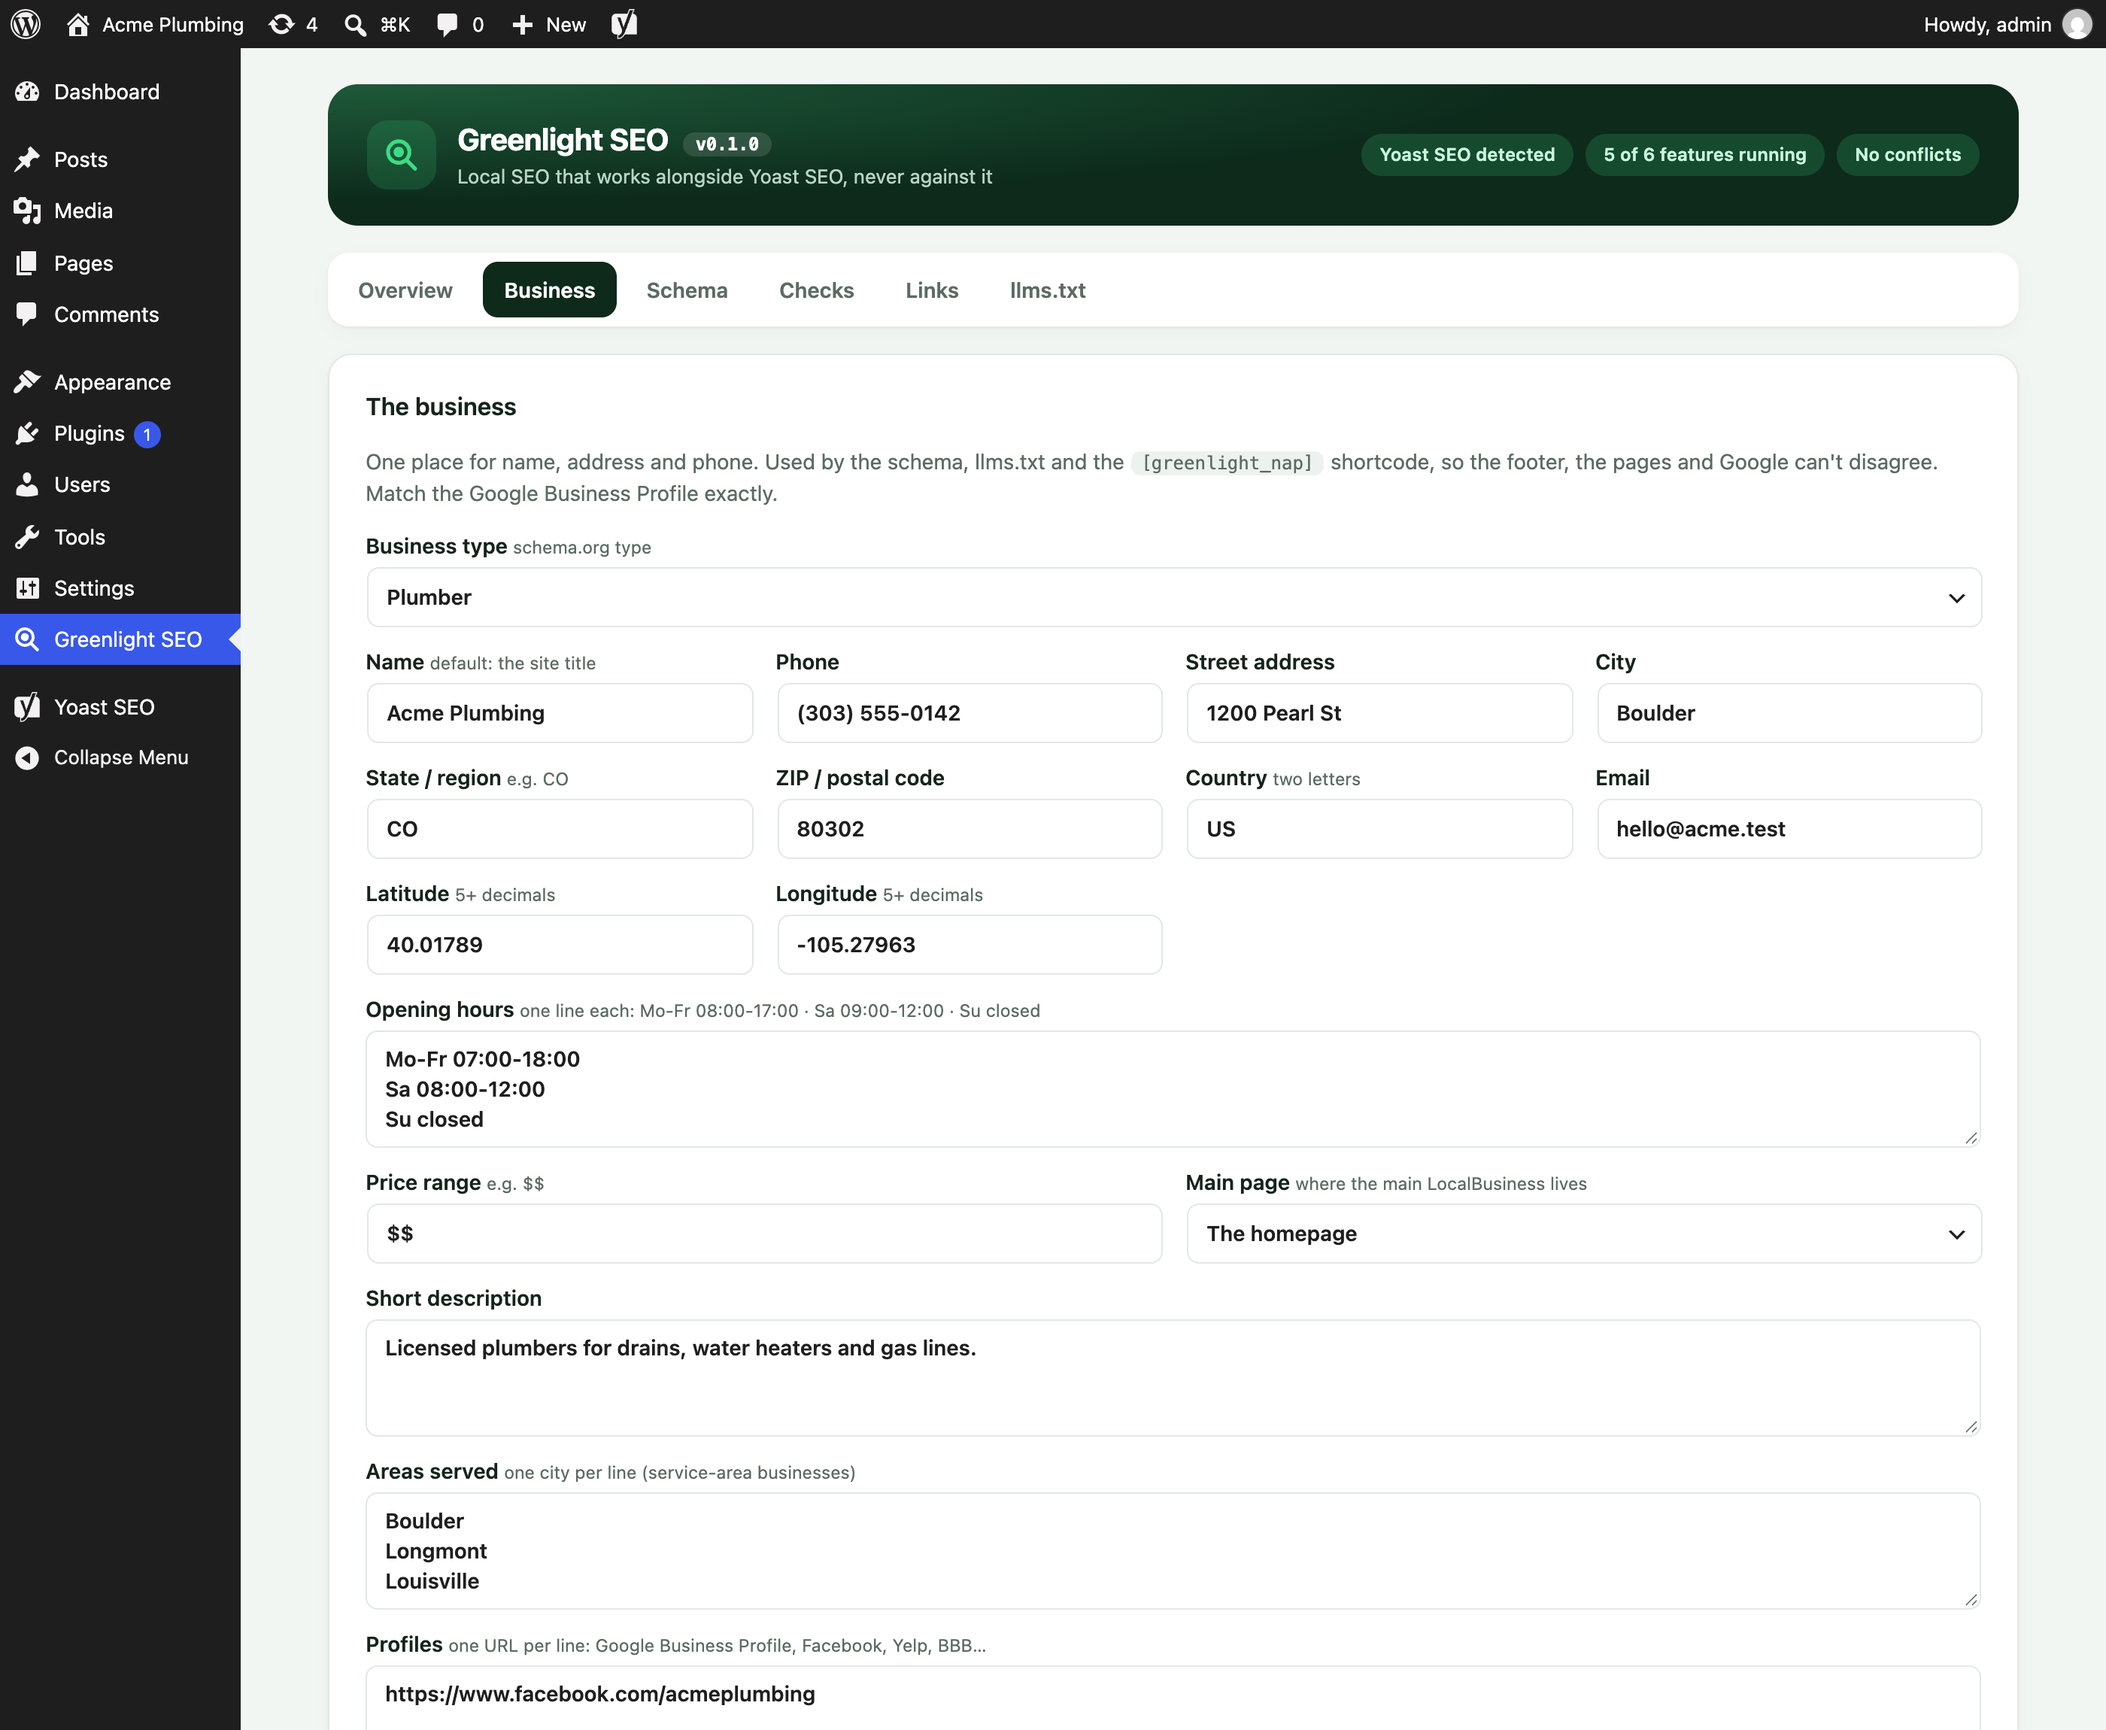
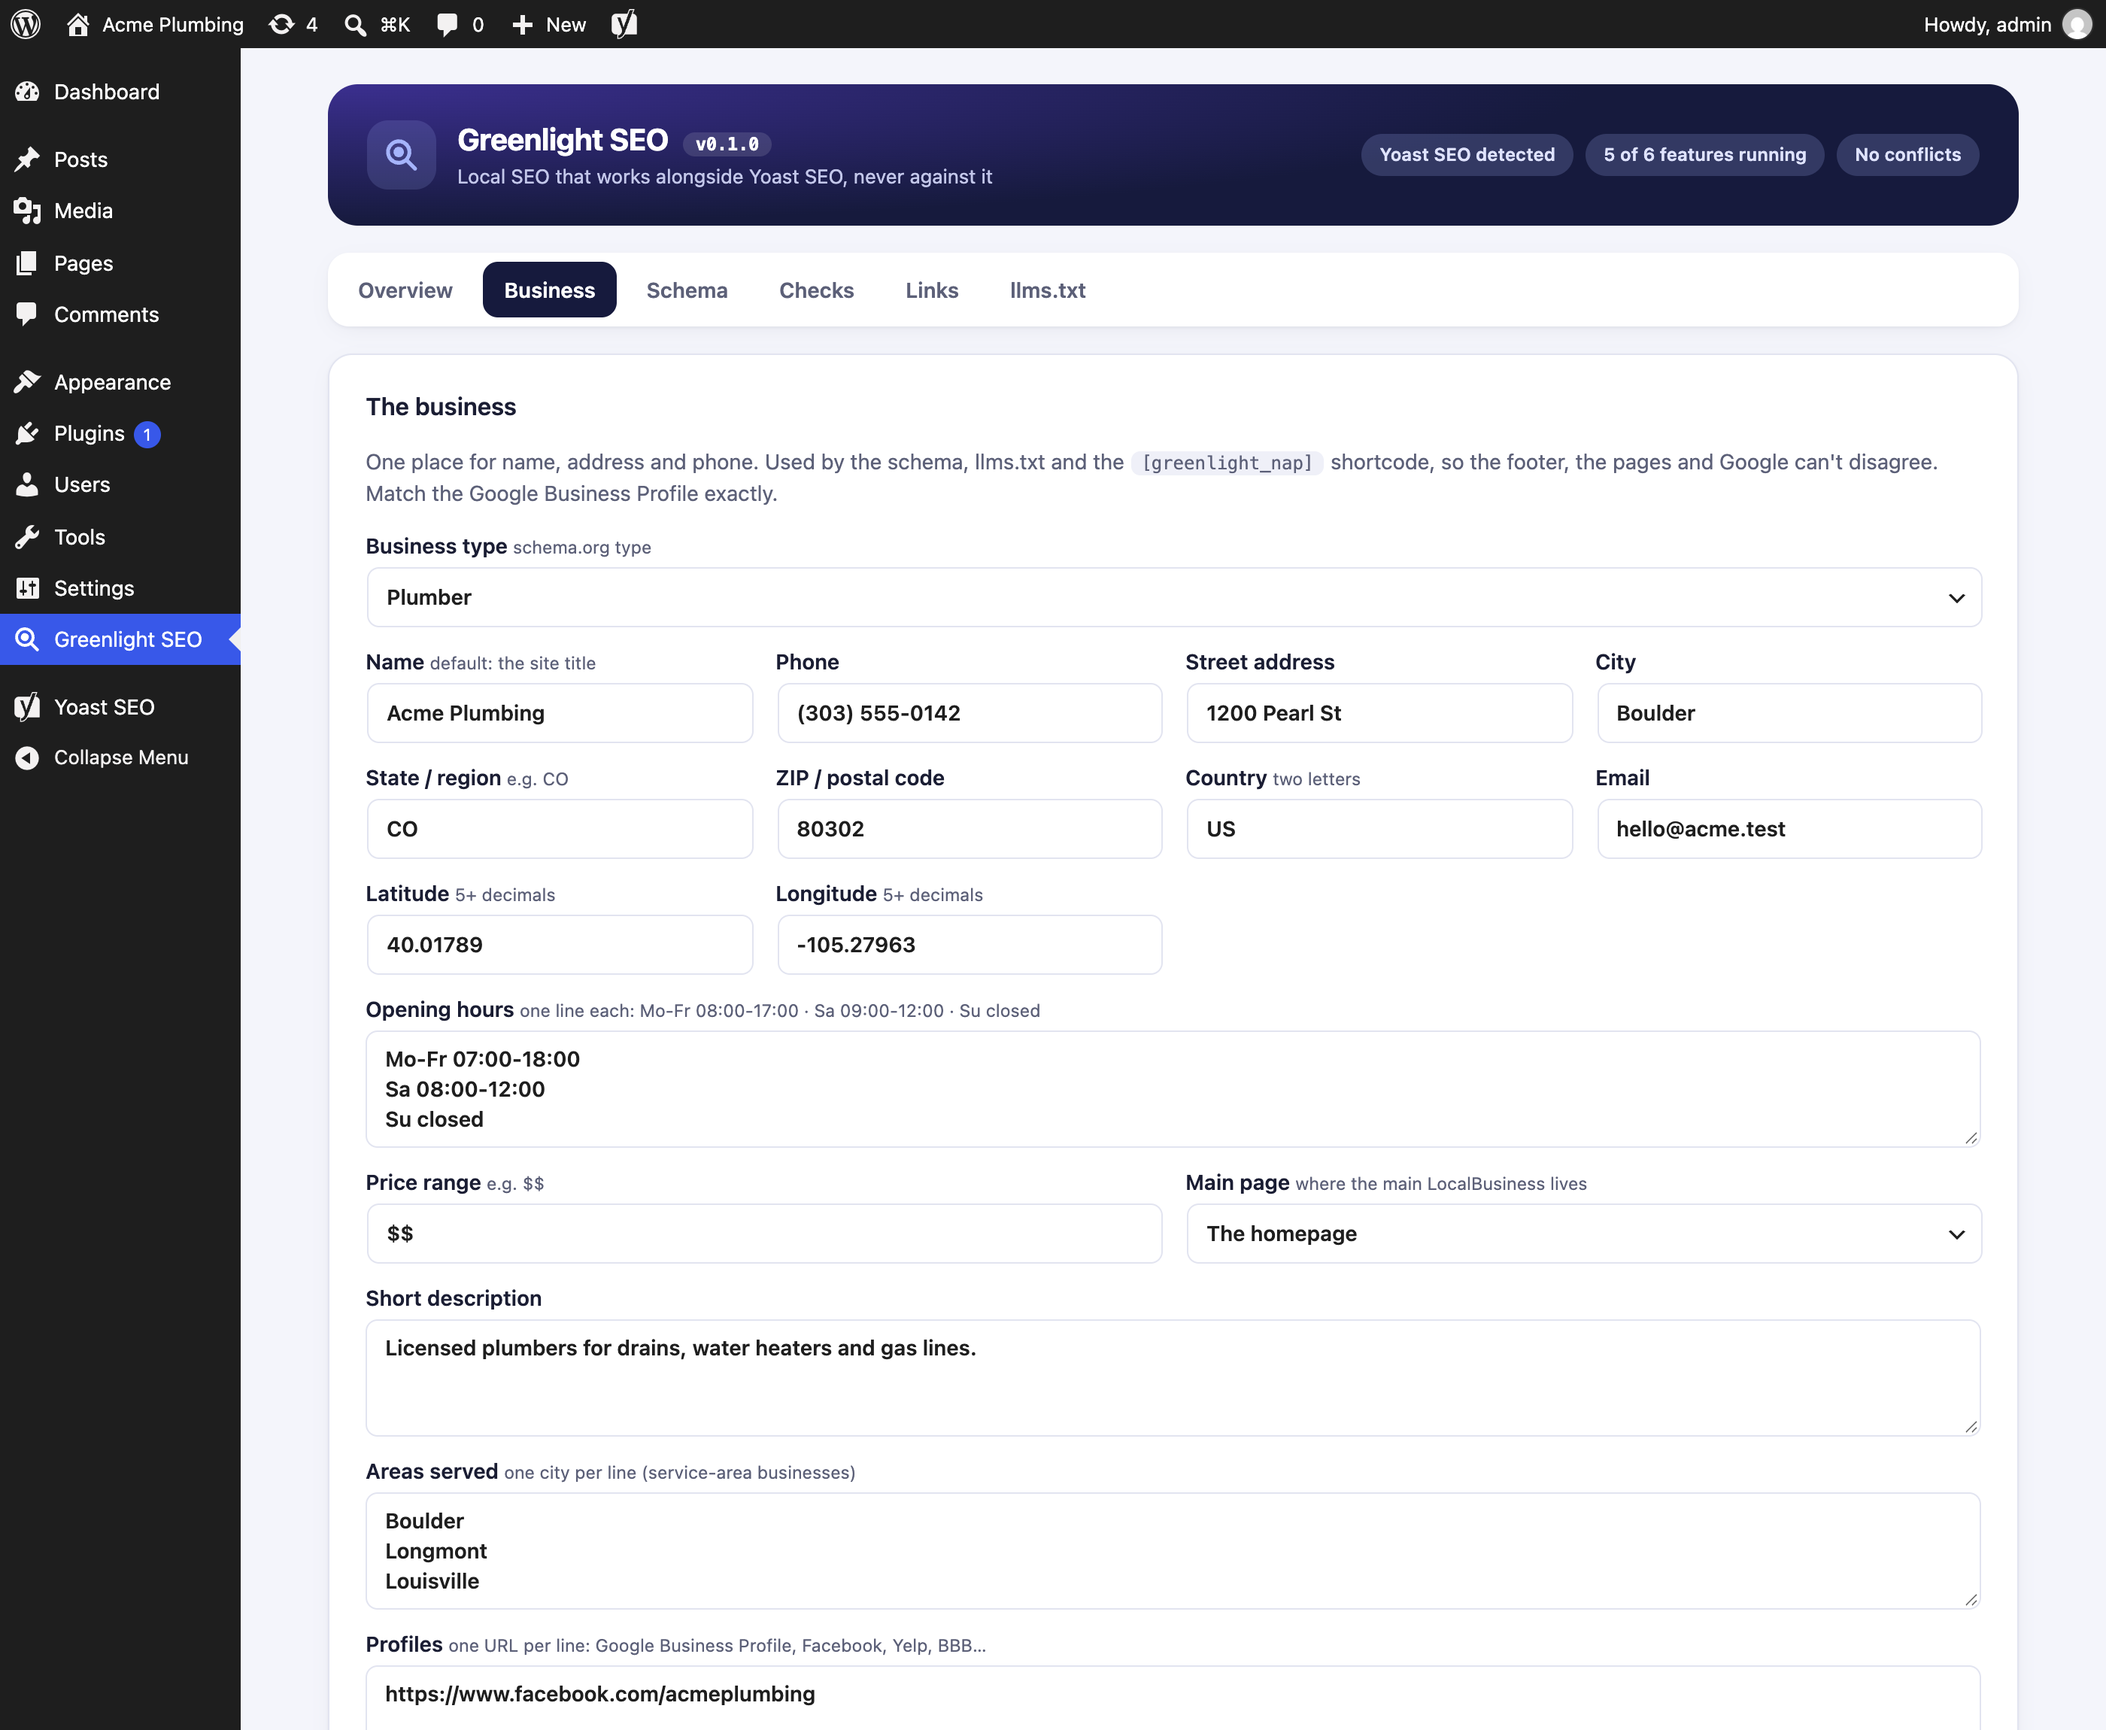
Admin page: its own indigo palette, distinct from Greenlight's green

Changed region(s): [[0.1554, 0.0309, 0.9632, 0.1852]]

diff --git a/assets/admin.css b/assets/admin.css
@@ -1,25 +1,26 @@
-/* Greenlight SEO settings page. Scoped to .gls-wrap so nothing leaks into the rest of wp-admin. Greenlight's palette. */
-body.toplevel_page_greenlight-seo { background: #f2f6f3; }
+/* Greenlight SEO settings page. Scoped to .gls-wrap so nothing leaks into the rest of wp-admin.
+   Its own indigo palette, so it can't be mistaken for Greenlight's green one. */
+body.toplevel_page_greenlight-seo { background: #f4f5fb; }
 body.toplevel_page_greenlight-seo #wpcontent { padding-left: 0; }
 body.toplevel_page_greenlight-seo #wpfooter { display: none; }
 
 .gls-wrap {
-	--ink: #0d2a1b;
-	--green: #16a34a;
-	--green-dark: #117a39;
-	--mint: #3ddc84;
-	--mint-soft: #e5f7ec;
+	--ink: #161a3d;
+	--accent: #5b4fe0;
+	--accent-dark: #4338ca;
+	--glow: #a5b4fc;
+	--accent-soft: #eef0ff;
 	--card: #fff;
-	--line: #e1e9e4;
-	--line-soft: #edf2ef;
-	--text: #15241b;
-	--muted: #5b6b62;
+	--line: #e2e4f0;
+	--line-soft: #eff0f8;
+	--text: #1a1d33;
+	--muted: #5c6078;
 	--warn: #a4520a;
 	--warn-bg: #fff6e8;
 	--warn-line: #f6dcb4;
 	--danger: #b42318;
 	--radius: 16px;
-	--shadow: 0 1px 2px rgba(13, 42, 27, .05), 0 4px 16px -6px rgba(13, 42, 27, .08);
+	--shadow: 0 1px 2px rgba(22, 26, 61, .05), 0 4px 16px -6px rgba(22, 26, 61, .1);
 	--font: -apple-system, BlinkMacSystemFont, "Segoe UI", Roboto, "Helvetica Neue", Arial, sans-serif;
 	--mono: ui-monospace, SFMono-Regular, Menlo, Consolas, monospace;
 	margin: 0; padding: 0; max-width: none;
@@ -36,25 +37,25 @@ body.toplevel_page_greenlight-seo #wpfooter { display: none; }
 .gls-head {
 	display: flex; flex-wrap: wrap; align-items: center; justify-content: space-between; gap: 18px;
 	margin: 24px 0 18px; padding: 22px 26px; border-radius: 20px; color: #fff;
-	background: radial-gradient(120% 140% at 0% 0%, #1e5a3a 0%, var(--ink) 60%);
+	background: radial-gradient(120% 160% at 0% 0%, #3b2f8f 0%, var(--ink) 62%);
 }
 .gls-brand { display: flex; align-items: center; gap: 14px; }
-.gls-logo { display: grid; place-items: center; width: 46px; height: 46px; border-radius: 14px; background: rgba(61, 220, 132, .16); color: var(--mint); }
+.gls-logo { display: grid; place-items: center; width: 46px; height: 46px; border-radius: 14px; background: rgba(165, 180, 252, .16); color: var(--glow); }
 .gls-brand-name { font-size: 20px; font-weight: 700; letter-spacing: -.01em; }
 .gls-version { margin-left: 6px; padding: 1px 8px; border-radius: 999px; background: rgba(255, 255, 255, .12); font: 600 12px/1.6 var(--mono); }
-.gls-brand-tag { color: #b9d4c4; font-size: 13px; }
+.gls-brand-tag { color: #c3c7ea; font-size: 13px; }
 .gls-chips { display: flex; flex-wrap: wrap; gap: 8px; margin: 0; padding: 0; list-style: none; }
-.gls-chip { margin: 0; padding: 5px 12px; border-radius: 999px; background: rgba(255, 255, 255, .1); color: #e6f2ea; font-size: 12px; font-weight: 600; }
-.gls-chip.is-good { background: rgba(61, 220, 132, .18); color: #c9f7dc; }
+.gls-chip { margin: 0; padding: 5px 12px; border-radius: 999px; background: rgba(255, 255, 255, .1); color: #e7e8f8; font-size: 12px; font-weight: 600; }
+.gls-chip.is-good { background: rgba(165, 180, 252, .2); color: #dfe3ff; }
 .gls-chip.is-warn { background: rgba(246, 177, 84, .22); color: #ffe2b8; }
-.gls-toast { margin: 0 0 16px; padding: 12px 16px; border-radius: 12px; background: var(--mint-soft); color: #0f5130; font-weight: 600; }
+.gls-toast { margin: 0 0 16px; padding: 12px 16px; border-radius: 12px; background: var(--accent-soft); color: var(--accent-dark); font-weight: 600; }
 
 /* Tabs */
 .gls-tabs { display: flex; flex-wrap: wrap; gap: 6px; margin: 0 0 18px; padding: 6px; border-radius: 14px; background: var(--card); box-shadow: var(--shadow); }
 .gls-tab { padding: 8px 14px; border-radius: 10px; color: var(--muted); font-weight: 600; text-decoration: none; }
 .gls-tab:hover { background: var(--line-soft); color: var(--text); }
 .gls-tab[aria-selected="true"] { background: var(--ink); color: #fff; }
-.gls-tab:focus { box-shadow: 0 0 0 2px var(--green); outline: 0; }
+.gls-tab:focus { box-shadow: 0 0 0 2px var(--accent); outline: 0; }
 .gls-panel { display: none; }
 .gls-panel.is-active { display: block; }
 
@@ -72,13 +73,13 @@ body.toplevel_page_greenlight-seo #wpfooter { display: none; }
 .gls-features { margin: 10px 0 0; padding: 0; list-style: none; }
 .gls-features li { display: flex; justify-content: space-between; gap: 12px; padding: 8px 0; border-top: 1px solid var(--line-soft); }
 .gls-features li span { color: var(--muted); text-align: right; }
-.gls-features li.is-on span { color: var(--green-dark); font-weight: 600; }
-.gls-features li.is-on strong::before { content: "● "; color: var(--green); }
-.gls-features li.is-off strong::before { content: "○ "; color: #9aa79f; }
+.gls-features li.is-on span { color: var(--accent-dark); font-weight: 600; }
+.gls-features li.is-on strong::before { content: "● "; color: var(--accent); }
+.gls-features li.is-off strong::before { content: "○ "; color: #a3a7bd; }
 
 .gls-stats { display: grid; grid-template-columns: 1fr 1fr; gap: 10px; margin: 10px 0 14px; }
-.gls-stat { display: grid; gap: 2px; padding: 12px 14px; border-radius: 12px; background: var(--mint-soft); color: var(--text); text-decoration: none; }
-.gls-stat b { font-size: 24px; line-height: 1.1; color: var(--green-dark); }
+.gls-stat { display: grid; gap: 2px; padding: 12px 14px; border-radius: 12px; background: var(--accent-soft); color: var(--text); text-decoration: none; }
+.gls-stat b { font-size: 24px; line-height: 1.1; color: var(--accent-dark); }
 .gls-stat span { color: var(--muted); font-size: 12px; }
 .gls-stat.is-bad { background: var(--warn-bg); }
 .gls-stat.is-bad b { color: var(--warn); }
@@ -91,11 +92,11 @@ body.toplevel_page_greenlight-seo #wpfooter { display: none; }
 .gls-row.is-blocked .gls-switch { opacity: .45; }
 .gls-switch { position: relative; flex: none; width: 44px; height: 24px; margin-top: 2px; }
 .gls-switch input { position: absolute; inset: 0; width: 100%; height: 100%; margin: 0; opacity: 0; cursor: pointer; z-index: 1; }
-.gls-slider { position: absolute; inset: 0; border-radius: 999px; background: #cfd8d2; transition: background .15s; }
+.gls-slider { position: absolute; inset: 0; border-radius: 999px; background: #d3d5e4; transition: background .15s; }
 .gls-slider::after { content: ""; position: absolute; top: 3px; left: 3px; width: 18px; height: 18px; border-radius: 50%; background: #fff; box-shadow: 0 1px 2px rgba(0, 0, 0, .2); transition: transform .15s; }
-.gls-switch input:checked + .gls-slider { background: var(--green); }
+.gls-switch input:checked + .gls-slider { background: var(--accent); }
 .gls-switch input:checked + .gls-slider::after { transform: translateX(20px); }
-.gls-switch input:focus-visible + .gls-slider { box-shadow: 0 0 0 3px rgba(22, 163, 74, .35); }
+.gls-switch input:focus-visible + .gls-slider { box-shadow: 0 0 0 3px rgba(91, 79, 224, .35); }
 
 /* Fields */
 .gls-grid { display: grid; grid-template-columns: repeat(auto-fit, minmax(220px, 1fr)); gap: 12px 16px; margin: 12px 0; }
@@ -121,7 +122,7 @@ body.toplevel_page_greenlight-seo #wpfooter { display: none; }
 .gls-list { margin: 8px 0 0; padding: 0; list-style: none; }
 .gls-list li { padding: 5px 0; border-top: 1px solid var(--line-soft); }
 .gls-list .gls-url { display: inline; margin-left: 6px; }
-.gls-pre { max-height: 420px; overflow: auto; margin: 6px 0 0; padding: 14px; border-radius: 12px; background: #0f1f17; color: #d7eadf; font: 12px/1.6 var(--mono); white-space: pre-wrap; }
+.gls-pre { max-height: 420px; overflow: auto; margin: 6px 0 0; padding: 14px; border-radius: 12px; background: #14172e; color: #dcdff7; font: 12px/1.6 var(--mono); white-space: pre-wrap; }
 
 @media (max-width: 782px) {
 	.gls-app { padding: 0 12px 30px; }
